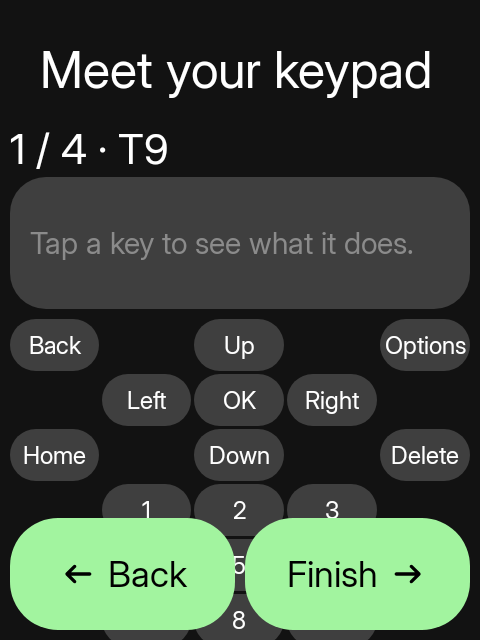
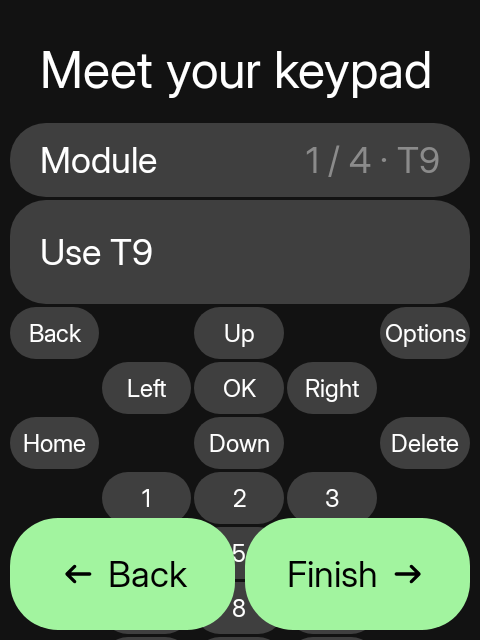
feat(onboarding): use the interactive keypad guide
The guide no longer shows an empty placeholder card; the detail card appears only after a key is tapped. Onboarding now uses the same module row and guide as Settings, with a compact Use action and no separate skip button or closing copy.

diff --git a/sidekit-sdk/src/main/java/hrln/interactive/sidekit/sdk/settings/KeypadGuide.kt b/sidekit-sdk/src/main/java/hrln/interactive/sidekit/sdk/settings/KeypadGuide.kt
@@ -1,5 +1,8 @@
 package hrln.interactive.sidekit.sdk.settings
 
+import androidx.compose.animation.AnimatedVisibility
+import androidx.compose.animation.expandVertically
+import androidx.compose.animation.shrinkVertically
 import androidx.compose.foundation.layout.Arrangement
 import androidx.compose.foundation.layout.Column
 import androidx.compose.foundation.layout.Row
@@ -144,7 +147,13 @@ fun KeypadGuide(module: KeypadModule) {
     var selected by remember(module) { mutableStateOf<KeypadGuideKey?>(null) }
     val spacing = SidekitTheme.spacing
     Column(verticalArrangement = Arrangement.spacedBy(spacing.pageGap)) {
-        KeypadGuideDetail(selected)
+        AnimatedVisibility(
+            visible = selected != null,
+            enter = expandVertically(),
+            exit = shrinkVertically()
+        ) {
+            selected?.let { KeypadGuideDetail(it) }
+        }
         Column(verticalArrangement = Arrangement.spacedBy(spacing.itemOuterGap)) {
             rows.forEach { row ->
                 val keyHeight = if (row.size > 3) 52.dp else 64.dp
@@ -186,32 +195,18 @@ fun KeypadGuide(module: KeypadModule) {
 }
 
 @Composable
-private fun KeypadGuideDetail(key: KeypadGuideKey?) {
+private fun KeypadGuideDetail(key: KeypadGuideKey) {
     SidekitTile(
-        Modifier.fillMaxWidth().height(132.dp),
+        Modifier.fillMaxWidth().height(112.dp),
         contentAlignment = Alignment.CenterStart
     ) {
-        if (key == null) {
-            Column(
-                Modifier.fillMaxSize().padding(horizontal = 20.dp),
-                verticalArrangement = Arrangement.Center
-            ) {
-                SidekitText(
-                    "Tap a key to see what it does.",
-                    style = SidekitTheme.typography.label,
-                    color = SidekitTheme.colors.surfaceA6,
-                    maxLines = 2
-                )
-            }
-        } else {
-            Column(
-                Modifier.fillMaxSize().padding(horizontal = 20.dp),
-                verticalArrangement = Arrangement.Center
-            ) {
-                SidekitText(key.label, style = SidekitTheme.typography.label, maxLines = 1)
-                GuideAction("Tap", key.tap)
-                GuideAction("Hold", key.hold ?: "No long press", muted = key.hold == null)
-            }
+        Column(
+            Modifier.fillMaxSize().padding(horizontal = 20.dp),
+            verticalArrangement = Arrangement.Center
+        ) {
+            SidekitText(key.label, style = SidekitTheme.typography.label, maxLines = 1)
+            GuideAction("Tap", key.tap)
+            GuideAction("Hold", key.hold ?: "No long press", muted = key.hold == null)
         }
     }
 }

diff --git a/app/src/main/java/hrln/interactive/sidekit/onboarding/OnboardingScreen.kt b/app/src/main/java/hrln/interactive/sidekit/onboarding/OnboardingScreen.kt
@@ -18,6 +18,7 @@ import androidx.compose.ui.unit.dp
 import androidx.compose.ui.unit.sp
 import androidx.lifecycle.compose.LifecycleResumeEffect
 import androidx.lifecycle.compose.collectAsStateWithLifecycle
+import hrln.interactive.sidekit.apps.everyday.CompactRowHeight
 import hrln.interactive.sidekit.apps.settings.*
 import hrln.interactive.sidekit.apps.sideport.registry.PortedApps
 import hrln.interactive.sidekit.design.action.SideAction
@@ -163,13 +164,18 @@ internal fun OnboardingScreen(onFinish: () -> Unit, replay: Boolean = false) {
                     }
 
                     6 -> {
-                        item { SidekitText("${tourIndex + 1} / ${modules.size} · ${modules[tourIndex].label}", style = SidekitTheme.typography.headline) }
+                        item {
+                            SidekitItem(
+                                "Module",
+                                Modifier.height(CompactRowHeight).listFade(listState, 0),
+                                secondary = "${tourIndex + 1} / ${modules.size} · ${tourLabel(modules[tourIndex])}",
+                                secondaryToEnd = true,
+                                onClick = { tourIndex = (tourIndex + 1) % modules.size }
+                            )
+                        }
+                        item { SidekitLineButton("Use ${modules[tourIndex].label}", { keypad?.useModule(modules[tourIndex]) }, variant = LineButtonVariant.Secondary) }
                         item { KeypadGuide(modules[tourIndex]) }
                         item { SidekitText("${keypad?.module?.label ?: "T9"} is your current selection. Press a letter, digit or media key to detect yours.", style = SidekitTheme.typography.label, maxLines = Int.MAX_VALUE) }
-
-                        item { SidekitLineButton("Skip / next keypad", { tourIndex = (tourIndex + 1) % modules.size }, variant = LineButtonVariant.Secondary) }
-                        item { SidekitLineButton("Use ${modules[tourIndex].label}", { keypad?.useModule(modules[tourIndex]) }) }
-                        item { Copy("Ready when you are", "Tap Finish to open your home screen. Revisit this tour from Settings → Setup & keypad tour.") }
                     }
                 }
                 message?.let { item { Copy("Access update", it) } }
@@ -208,3 +214,9 @@ private fun LayoutChoice(list: Boolean, selected: Boolean, choose: () -> Unit) {
 }
 
 internal fun orderedModules(current: KeypadModule) = listOf(current) + KeypadModule.entries.filter { it != current }
+
+private fun tourLabel(module: KeypadModule) = when (module) {
+    KeypadModule.Qwerty -> "QWERTY"
+    KeypadModule.GamePad -> "Controller"
+    else -> module.label
+}

diff --git a/app/src/test/java/hrln/interactive/sidekit/onboarding/OnboardingTest.kt b/app/src/test/java/hrln/interactive/sidekit/onboarding/OnboardingTest.kt
@@ -84,22 +84,19 @@ class OnboardingTest {
 
     @Test fun `current keypad is first and other demos do not change it`() {
         launch(6, KeypadModule.Qwerty)
-        compose.onNodeWithText("1 / 4 · Mini QWERTY").assertIsDisplayed()
-        compose.onNodeWithText("Tap a key to see what it does.").performScrollTo().assertExists()
+        compose.onNodeWithText("1 / 4 · QWERTY").assertIsDisplayed()
+        compose.onNodeWithText("Tap a key to see what it does.").assertDoesNotExist()
         compose.onNodeWithText("QW").assertExists()
         shot("07-qwerty")
-        compose.onNode(hasScrollToIndexAction()).performScrollToNode(hasText("Skip / next keypad"))
-        compose.onNodeWithText("Skip / next keypad").performClick()
+        compose.onNodeWithText("Module").performClick()
         compose.onNodeWithText("2 / 4 · T9").assertExists()
-        compose.onNode(hasScrollToIndexAction()).performScrollToNode(hasText("Skip / next keypad"))
-        compose.onNodeWithText("Skip / next keypad").performClick()
+        compose.onNodeWithText("Module").performClick()
         compose.onNodeWithText("3 / 4 · Sundial").assertExists()
         compose.onNodeWithText("Meet your keypad").assertIsDisplayed()
         compose.onNodeWithText("3 / 4 · Sundial").performScrollTo()
         shot("08-sundial")
-        compose.onNode(hasScrollToIndexAction()).performScrollToNode(hasText("Skip / next keypad"))
-        compose.onNodeWithText("Skip / next keypad").performClick()
-        compose.onNodeWithText("4 / 4 · Game controller").performScrollTo()
+        compose.onNodeWithText("Module").performClick()
+        compose.onNodeWithText("4 / 4 · Controller").performScrollTo()
         shot("09-controller")
         compose.onNode(hasScrollToIndexAction()).performScrollToNode(hasText("Mini QWERTY is your current selection.", substring = true))
         compose.onNodeWithText("Mini QWERTY is your current selection.", substring = true).assertExists()

diff --git a/app/src/test/java/hrln/interactive/sidekit/apps/settings/KeypadMappingUiTest.kt b/app/src/test/java/hrln/interactive/sidekit/apps/settings/KeypadMappingUiTest.kt
@@ -230,12 +230,13 @@ class KeypadMappingUiTest {
     @Test fun keyGuideShowsOneActionAtATime() {
         show(KeypadModule.T9) { KeypadGuideScreen {} }
         compose.onNodeWithText("Key guide").assertIsDisplayed()
-        compose.onNodeWithText("Tap a key to see what it does.").assertIsDisplayed()
+        compose.onNodeWithText("Tap a key to see what it does.").assertDoesNotExist()
+        compose.onRoot().captureRoboImage("screenshots/keyboard_guide_page.png")
         compose.onNodeWithText("OK").performClick()
         compose.onNodeWithText("Activate the focused control or confirm a suggestion.").assertIsDisplayed()
         compose.onNodeWithText("No long press").assertIsDisplayed()
         compose.onNodeWithText("Back").performClick()
         compose.onNodeWithText("Open the dialer.").assertIsDisplayed()
-        compose.onRoot().captureRoboImage("screenshots/keyboard_guide_page.png")
+        compose.onRoot().captureRoboImage("screenshots/keyboard_guide_selected.png")
     }
 }

diff --git a/docs/onboarding.md b/docs/onboarding.md
@@ -8,7 +8,7 @@ First launch opens a seven-step setup using Sidekit's existing canvas, theme, ca
 4. Hide apps you do not want on home. The same controls are in Settings → Hide apps. Built-in and Sideport apps can be hidden or restored, including with Show all apps. Hidden apps are excluded from grid, list, search and dock; they are not uninstalled. Settings remains in Options.
 5. Review feature-specific permissions and special access. Nothing is requested automatically. Declining access never blocks completion; the affected feature still needs its permission. Returning from Android settings refreshes status. A repeated runtime-permission request opens App settings so permanently denied access can be changed.
 6. Choose letters or numbers as the default input mode.
-7. Explore tappable, schematic keypad diagrams. The remembered/detected module comes first. Skip through all four without changing the active module, or explicitly select one with “Use”. Finish opens home.
+7. Explore tappable, schematic keypad diagrams. The remembered/detected module comes first. Tap the Module row to cycle through all four without changing the active module, or explicitly select one with “Use”. Finish opens home.
 
 The keypad hardware exposes no distinct module identifier. Existing detection recognises distinctive key events, persists the last module and initially defaults to T9. Setup does not claim to detect a module before such a key is pressed. Controller actions depend on the app/game; the tour does not promise universal game mappings. For keypads Sidekit does not recognise, or to move keys, see [Keypad mapping](keypad-mapping.md).
 
